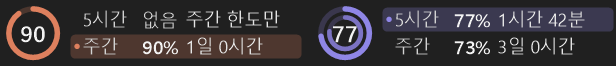
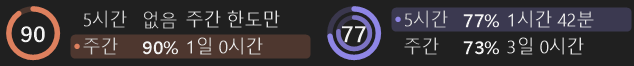
Widen the taskbar time column for font metric differences
CI (windows-2025) measured the longest time text at 76.3 DIP against a
76 DIP column (74 locally). Row 160 DIP (time column 82), full layout
423 DIP; laptop and desktop placement checks still pass.

Changed region(s): [[0.0, 0.0909, 0.4627, 0.9091], [0.4935, 0.0909, 0.9562, 0.9091]]

diff --git a/src/Editions/Dual/RingArtwork.cs b/src/Editions/Dual/RingArtwork.cs
@@ -47,7 +47,7 @@ internal static class RingArtwork
     // left until that reset ("6일 13시간", "4시간 17분"); the row behind the center number gets a service-colored dot
     // and tint, like the detail window. Words are never abbreviated here.
     internal const int RowGap = 5;
-    internal const int RowWidth = 154;
+    internal const int RowWidth = 160;   // time column 82 DIP: the longest time measured 74 here, 76.3 on the CI runner
     internal const int WideServiceGap = 9;
     internal const int WideWidth = Pad + 2 * (RingCell + RowGap + RowWidth) + WideServiceGap + Pad;
     // Two 16 DIP rows and the 2 DIP between them need 34 DIP. A 40 px taskbar at 100% leaves 36 DIP for the meter

diff --git a/CHANGELOG.md b/CHANGELOG.md
@@ -2,7 +2,7 @@
 
 ## 2.3.5 — 2026-11-28
 
-- Dual taskbar: clearer text. Labels and times use brighter tones (dark taskbar 210/228 instead of a single 176 grey; light taskbar 64/40 instead of 92), at least 9:1 contrast, and 12 px instead of 11 px; glyphs are grid-fitted to the pixel grid for sharper edges.
+- Dual taskbar: clearer text. Labels and times use brighter tones (dark taskbar 210/228 instead of a single 176 grey; light taskbar 64/40 instead of 92), at least 9:1 contrast, and 12 px instead of 11 px; glyphs are grid-fitted to the pixel grid for sharper edges. The full layout widens to 423 DIP so the longest time fits with room for font metric differences between machines.
 - Dual: larger ring numbers (about 15 px instead of 12 px on a 150% taskbar), capped so they still clear the inner ring on small 40 px taskbars. The detail window ring numbers grow too.
 - Classic and Expanded are unchanged.
 
